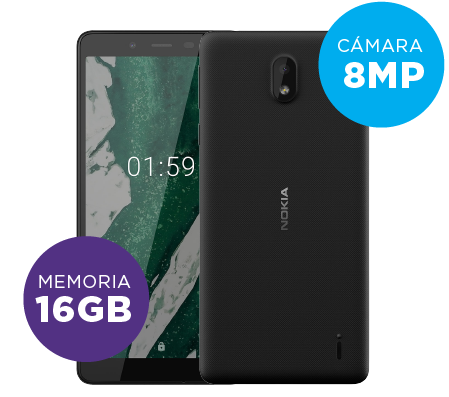
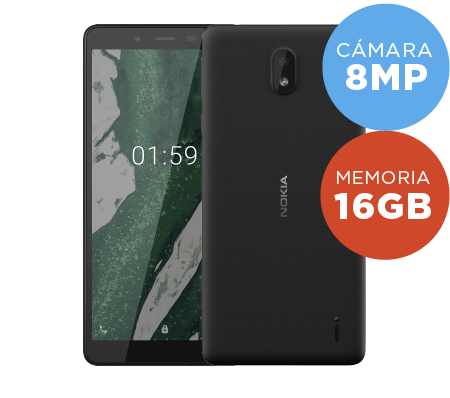
cambio de imagenes shop

diff --git a/resources/views/inc/fichas.blade.php b/resources/views/inc/fichas.blade.php
@@ -457,3 +457,65 @@
 
 
 
+  <!-- MODAL 7 -->
+   @component('comp.ficha')
+                @slot('id')
+                    9 
+                @endslot
+                @slot('memoria')
+                    64GB
+                @endslot
+                @slot('camara')
+                      12MP
+                @endslot
+                @slot('bateria')
+                      
+                @endslot
+
+
+                 @slot('imagenes',[
+                   0 => 'storage/img/shop/fichas/thumbs/nokia_71_plus/1.jpg',
+                   1 => 'storage/img/shop/fichas/thumbs/nokia_71_plus/2.jpg',
+                   2 => 'storage/img/shop/fichas/thumbs/nokia_71_plus/3.jpg',
+                   4 => 'storage/img/shop/fichas/thumbs/nokia_71_plus/4.jpg',
+
+                ])
+
+
+                @slot('marca')
+                    NOKIA
+                @endslot
+                @slot('modelo')
+                    7.1
+                @endslot
+                @slot('precio')
+                    $1444
+                @endslot
+                @slot('precioLista')
+                    $25.999
+                @endslot
+
+                @slot('features',[
+                
+                 0 => 'PANTALLA 5.84',
+                  1 => '4GB DE RAM',
+                  2 => '64GB DE MEMORIA INTERNA',
+                  3 => 'CÁMARA FRONTAL 8MP',
+                  4 => 'CÁMARA TRASERA 12+5MP 8MP',
+                  5 => 'BLUETOOTH',
+                  6 => 'LECTOR DE HUELLA',
+                  7 => 'ZOOM DIGITAL 4X',
+                  7 => 'FLASH DUAL LED',
+
+
+                ])
+
+                 @slot('so')
+                    true
+                @endslot
+                   
+                
+              @endcomponent
+
+
+

diff --git a/resources/views/inc/productos.blade.php b/resources/views/inc/productos.blade.php
@@ -194,6 +194,29 @@
 									@endslot		
 								@endcomponent
 							</div>
+							
+								<div>
+								@component('comp.producto')
+									@slot('marca')
+								    	NOKIA  
+									@endslot
+									@slot('modelo')
+								    	7.1
+									@endslot
+									@slot('precio')
+								    	$1444
+									@endslot
+									@slot('precioLista')
+								    	$25.999
+									@endslot
+									@slot('img')
+								    	storage/img/shop/productos/p-011.png
+									@endslot
+									@slot('dataTarget')
+								    	#9
+									@endslot		
+								@endcomponent
+							</div>
 
 
 
